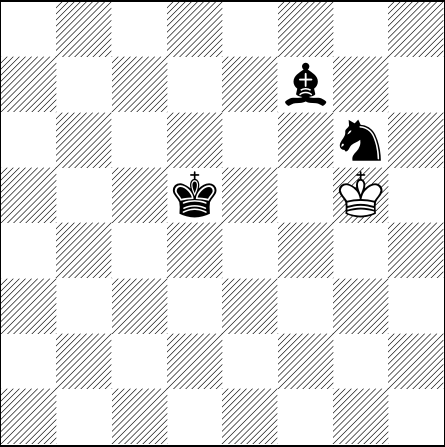
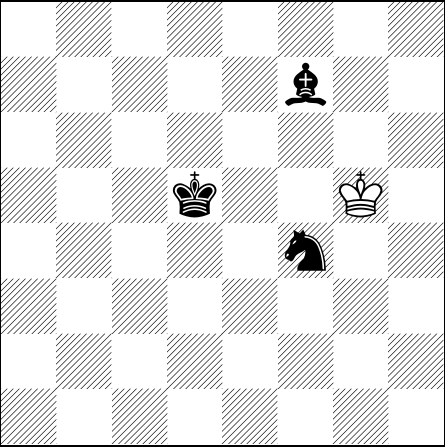
[automated] Regenerate text/pdf for chessboard

Changed region(s): [[0.7596, 0.2617, 0.8764, 0.3781], [0.6427, 0.4944, 0.7303, 0.6107]]

diff --git a/default_filepath.tex b/default_filepath.tex
@@ -13,6 +13,6 @@
 \normalsize%
 \setchessboard{showmover=false}%
 \newgame%
-\fenboard{8/5b2/6n1/3k2K1/8/8/8/8 b - - 26 218}%
+\fenboard{8/5b2/8/3k2K1/5n2/8/8/8 w - - 27 219}%
 \chessboard%
 \end{document}
